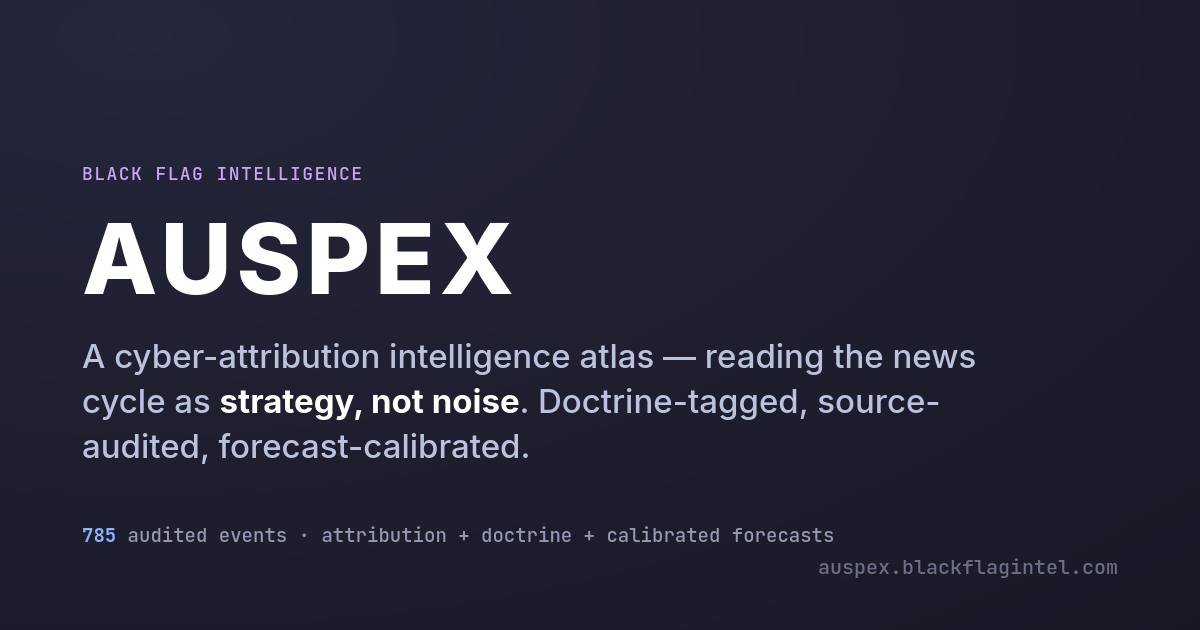
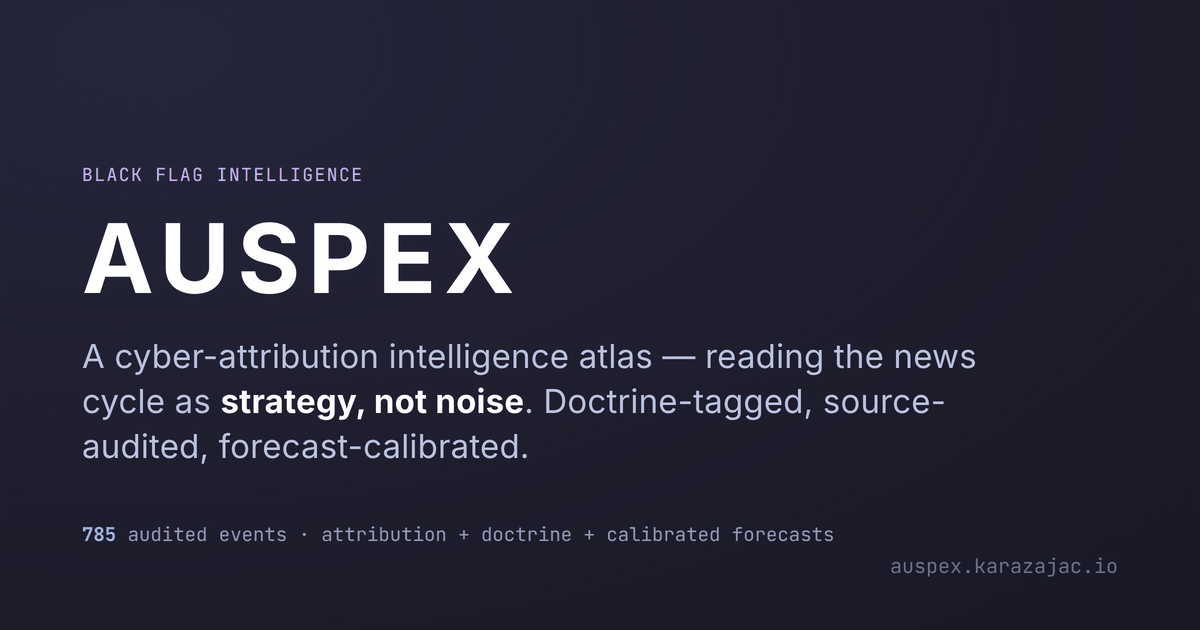
site: move to auspex.karazajac.io
blackflagintel.com is being retired, so AUSPEX moves to Kara's own domain.
The site URL (canonical links, sitemap, RSS), the API examples, the footer,
the citation and Zenodo metadata, the paper and the share card now name
auspex.karazajac.io. The old host forwards there, path and all, and the
.onion address is unchanged.

Claude-Session: https://claude.ai/code/session_01RVNzQM5QypA73kLFWsm3ki

diff --git a/site/src/pages/rss.xml.ts b/site/src/pages/rss.xml.ts
@@ -5,7 +5,7 @@ import { atlas, eventStateId } from '../utils/atlas';
 export const GET: APIRoute = (context) => {
   const a = atlas();
   const events = a.recentEvents(50);
-  const site = context.site?.toString() ?? 'https://auspex.blackflagintel.com';
+  const site = context.site?.toString() ?? 'https://auspex.karazajac.io';
 
   return rss({
     title: 'AUSPEX — Black Flag Intelligence',

diff --git a/paper/main.tex b/paper/main.tex
@@ -24,7 +24,7 @@ Who$\times$Why Engine and a Pre-Registered Forecast}
 
 \date{Draft of July 2026\thanks{Code, data, and every validation artifact:
 \url{https://github.com/KaraZajac/AUSPEX}; frozen snapshot archived on Zenodo, DOI \href{https://doi.org/10.5281/zenodo.21327251}{10.5281/zenodo.21327251}.
-Live atlas and engine: \url{https://auspex.blackflagintel.com}. Released under CC~BY~4.0; layered
+Live atlas and engine: \url{https://auspex.karazajac.io}. Released under CC~BY~4.0; layered
 upstream attribution in \code{DATA-RIGHTS.md}.}}
 
 \begin{document}

diff --git a/publish/PUBLICATION-PLAN.md b/publish/PUBLICATION-PLAN.md
@@ -22,7 +22,7 @@ commercial threat-intel firms publishing research data — is **dual-track**:
   get. It ages naturally — it is a historical snapshot, not the living product.
 - **Living product:** the continuously-updated atlas + engine + site stays yours, under
   whatever commercial terms you want. The paper can say "a continuously maintained version is
-  available at auspex.blackflagintel.com."
+  available at auspex.karazajac.io."
 
 License options for the research snapshot, in order of venue-compatibility:
 1. **CC BY 4.0** — required by Scientific Data and friends; maximal reuse incl. commercial.

diff --git a/README.md b/README.md
@@ -10,7 +10,7 @@ AUSPEX is a hand-curated, source-anchored corpus of state-sponsored cyber events
 strategic doctrines under which they were tasked. The thesis: vendor attribution names the *who*;
 doctrine names the *why*. Both are necessary; the join is the contribution.
 
-**Live site:** [auspex.blackflagintel.com](https://auspex.blackflagintel.com) — browse every event,
+**Live site:** [auspex.karazajac.io](https://auspex.karazajac.io) — browse every event,
 actor, and doctrine, with the attribution/doctrine engine and prospective forecasts.
 
 ## The dataset

diff --git a/publish/DATASHEET.md b/publish/DATASHEET.md
@@ -131,7 +131,7 @@ self-funded; machine-assisted curation with human verification (see Reliability)
 - **License:** CC BY 4.0 (decided 2026-06-09 — open gold standard, widest audience; reuse
   requires attribution to Kara Zajac / Black Flag Intelligence).
 - **DOI / access:** Zenodo, frozen tag `v1.0-dissertation`; living version at
-  auspex.blackflagintel.com.
+  auspex.karazajac.io.
 
 ## Maintenance
 

diff --git a/CHANGELOG.md b/CHANGELOG.md
@@ -42,6 +42,6 @@ mirror-corroborated).
 
 ### Notes
 - This is a frozen research snapshot; a continuously maintained version lives at
-  https://auspex.blackflagintel.com.
+  https://auspex.karazajac.io.
 - The pre-registered confirmatory predictions (`thesis/preregistration-2026-06.md`) are **not** locked
   by this release — the `v1.0-dissertation` pre-registration freeze is a separate, later tag.
